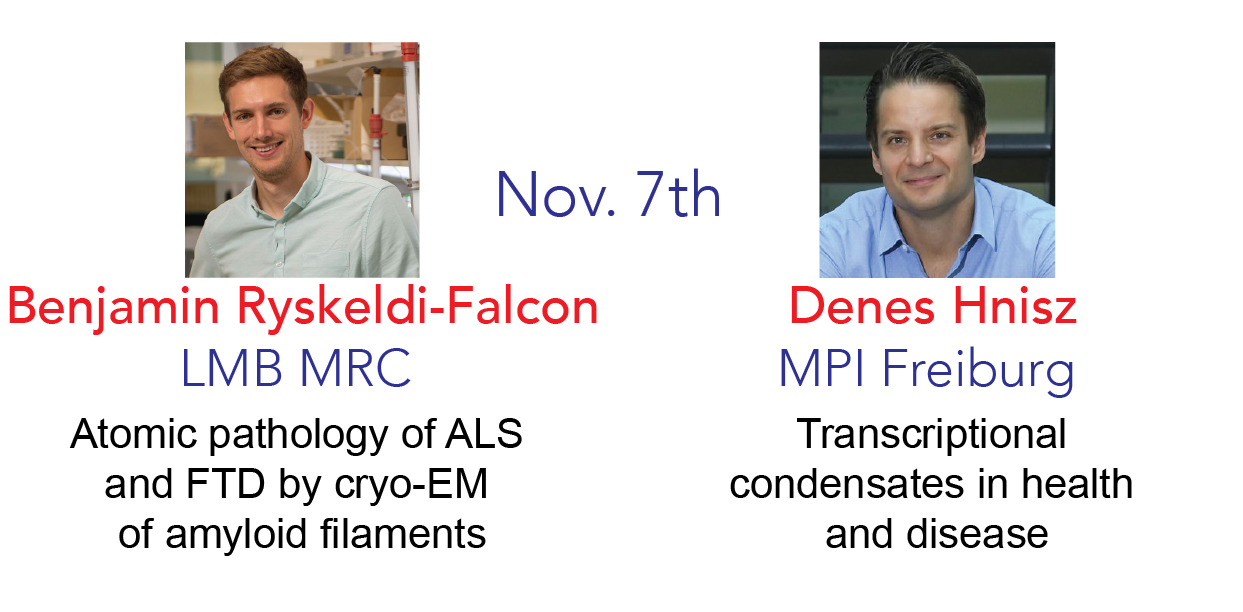
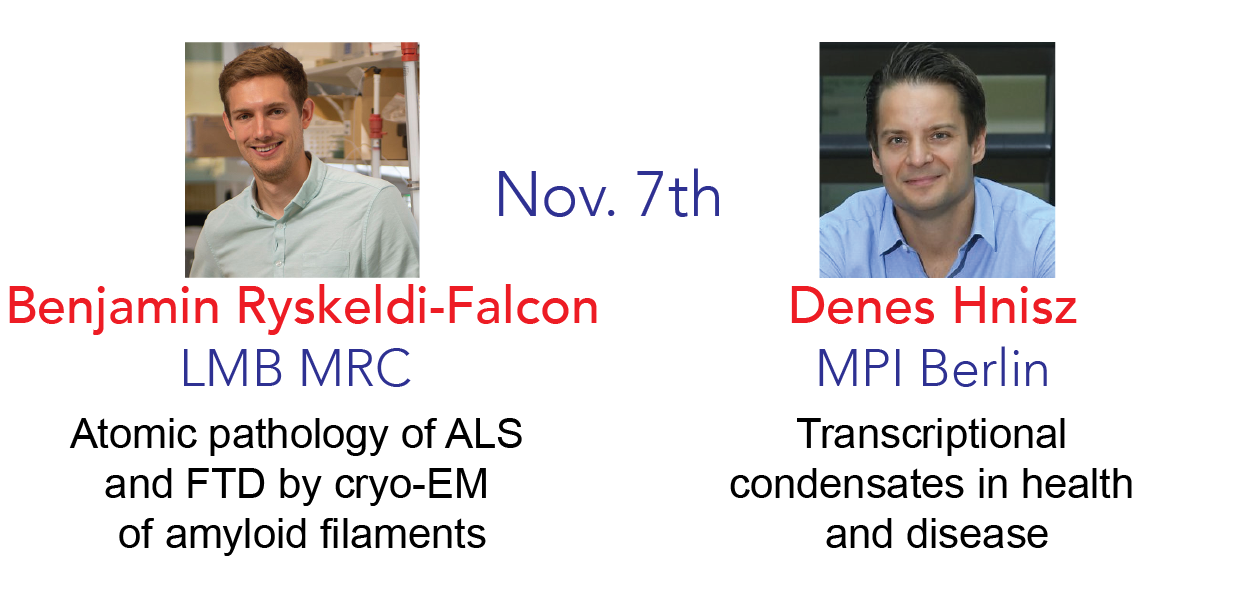
Fixed denes affiliation because I can't read

Changed region(s): [[0.6114, 0.5588, 0.8866, 0.652]]

diff --git a/_upcoming-talks/2024-11-07.md b/_upcoming-talks/2024-11-07.md
@@ -14,7 +14,7 @@ LMB MRC
 
 ### Transcriptional condensates in health and disease
 [Dr. Denes Hnisz](https://www.molgen.mpg.de/Genome-Regulation/Hnisz-lab) 
-MPI Freiburg 
+MPI Berlin 
 
 ---
 
